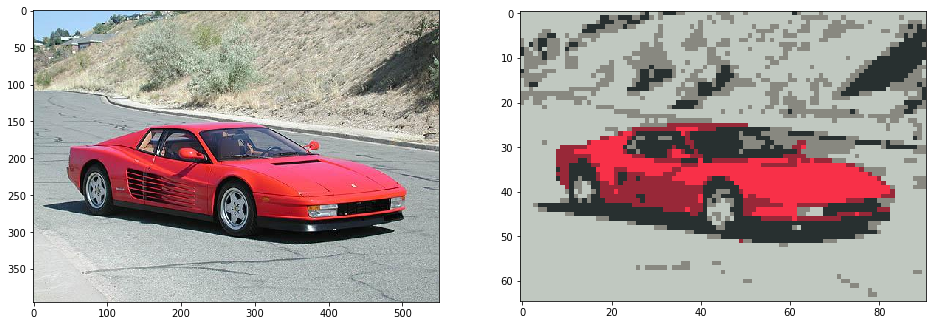
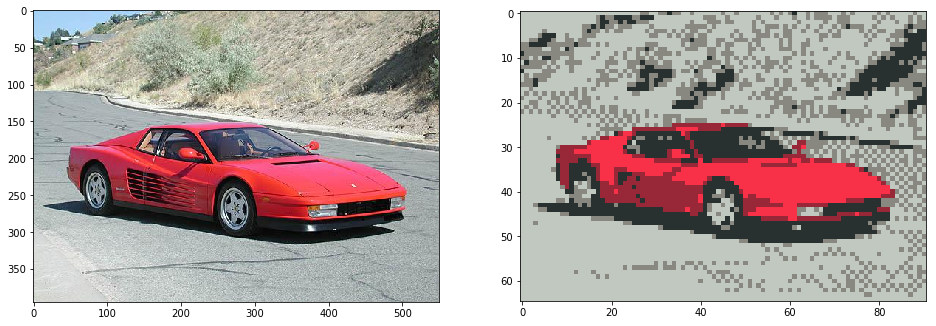
Implemented dithering
- Dithering is now available and is used by default
- Updated CLI tool to allow dithering
- Updated README.md and ferrari image example
- updated setup.py to include version information for 1.1.0

diff --git a/pyxelate.py b/pyxelate.py
@@ -10,6 +10,8 @@ from skimage.transform import resize
 
 from sklearn.mixture import BayesianGaussianMixture
 
+__version__ = '1.1.0'
+__version_info__ = tuple(int(num) for num in __version__.split('.'))
 
 class Pyxelate:
 
@@ -61,7 +63,7 @@ class Pyxelate:
 
 	ITER = 2
 
-	def __init__(self, height, width, color=8, regenerate_palette=True, random_state=0):
+	def __init__(self, height, width, color=8, dither=None, regenerate_palette=True, random_state=0):
 		"""Create instance for generating similar pixel arts."""
 
 		self.height = int(height)
@@ -71,7 +73,13 @@ class Pyxelate:
 		self.color = int(color)
 		if self.color < 2:
 			raise ValueError("The minimum number of colors is 2.")
-		self.regenerate_palette = regenerate_palette
+		if not dither:
+			self.dither = 1 / (self.color + 1)
+		elif dither > 0. and dither < 1.:
+			self.dither = float(dither)
+		else:
+			raise ValueError("The value of dither should be between 0. - 1.")
+		self.regenerate_palette = bool(regenerate_palette)
 		self.is_fitted = False
 		self.random_state = int(random_state)
 		self.model = BayesianGaussianMixture(n_components=self.color,
@@ -103,14 +111,27 @@ class Pyxelate:
 		width, height, depth = image.shape
 		reshaped = np.reshape(image, (width * height, depth))
 		y = self.model.predict(reshaped)
-
 		# increase hue and snap color values to multiples of 8
 		palette = rgb2hsv(self.model.means_.reshape(-1, 1, 3))
 		palette[:, :, 1] *= 1.14
 		palette = hsv2rgb(palette).reshape(self.color, 3) // 8 * 8
 
 		# return recolored image
-		image = np.reshape(palette[y], (width, height, depth))
+		image = palette[y]
+		# dither
+		if self.dither:
+			y = self.model.predict_proba(reshaped)
+			# get second best probability and remove it
+			y[np.arange(len(y)), np.argmax(y, axis=1)] = 0
+			# get new best and values
+			v = np.max(y, axis=1)
+			y = np.argmax(y, axis=1)
+			# replace every second pixel with second best color
+			for i in range(0, len(image), 2):
+				if v[i] > self.dither:
+					image[i] = palette[y[i]]
+
+		image = np.reshape(image, (width, height, depth))
 		return np.clip(image.astype("int"), 0, 255)
 
 	def _reduce(self, image):

diff --git a/pyx.py b/pyx.py
@@ -15,6 +15,7 @@ def parse_arguments():
     parser.add_argument('-f', '--factor', required=False, metavar='factor', type=int, default=5, help='The factor by which the image should be downscaled. Defaults to 5.')
     parser.add_argument('-s', '--scaling', required=False, metavar='scaling', type=int, default=5, help='The factor by which the generated image should be upscaled. Defaults to 5.')
     parser.add_argument('-c', '--colors', required=False, metavar='colors', type=int, default=8, help='The amount of colors of the pixelated image. Defaults to 8.')
+    parser.add_argument('-d', '--dither', required=False, metavar='dither', type=float, default=None, help='Amount of dithering 0. - 1.')
     parser.add_argument('-r', '--regenerate_palette', required=False, metavar='regenerate_palette', type=bool, default=True, help='Regenerate the palette for each image. Defaults to True.')
     parser.add_argument('-t', '--random_state', required=False, metavar='random_state', type=int, default=0, help='Sets the random state of the Bayesian Gaussian Mixture. Defaults to 0.')
     parser.add_argument('-i', '--input', required=False, metavar='path', type=str, default='', help='Path to single image or directory containing images for processing. Defaults <cwd>.')
@@ -53,7 +54,7 @@ if __name__ == "__main__":
     print(f"Writing files to {output_dir}")
 
     # height and width are getting set per image, this are just placeholders
-    p = Pyxelate(1, 1, color=args.colors, regenerate_palette=args.regenerate_palette, random_state=args.random_state)
+    p = Pyxelate(1, 1, color=args.colors, dither=args.dither, regenerate_palette=args.regenerate_palette, random_state=args.random_state)
 
     # loop over all images in the directory
     for image_file in image_files:

diff --git a/setup.py b/setup.py
@@ -1,7 +1,7 @@
 from setuptools import setup
 
 setup(name='pyxelate',
-      version='1.0',
+      version='1.1.0',
       description='Pyxelate is a Python class that converts images into tiny pixel arts with limited color palettes.',
       url='http://github.com/sedthh/pyxelate',
       author='sedthh',

diff --git a/README.md b/README.md
@@ -19,8 +19,9 @@ img = io.imread("cat.jpg")
 # generate pixel art that is 1/12 the size
 height, width, _ = img.shape 
 colors = 8
-p = Pyxelate(height // 12, width // 12, colors)
-img_small = p.convert(img)  # convert img
+dither = 0.
+p = Pyxelate(height // 12, width // 12, colors, dither)
+img_small = p.convert(img)  # convert an image with these settings
 
 _, axes = plt.subplots(1, 2, figsize=(16, 16))
 axes[0].imshow(img)
@@ -35,6 +36,7 @@ The **Pyxelate()** class accepts the following init parameters:
 - **height**: the height of the result image (height was chosen to be first parameter to mirror the array representation)
 - **width**: the width of the result image
 - **color**: the number of colors (default is 8)
+- **dither**: the amont of dithering between 0. - 1. (defaults value is 1 / (color + 1) )
 - **regenerate_palette**: if set to False, then the palette will only be generated once, and all future images will be generated using this original palette. This is useful for generating a sequence of images with the same palette (the default value is True, all images will have their own palettes).
 - **random_state**: the random state for the Bayesian Gaussian Mixture model (default is 0)
 
@@ -55,11 +57,11 @@ Then a Gaussian Mixture model is fitted (instead of conventional K-means) to fin
 ```pyx.py``` is the command line interface for the Pyxelate class and accepts a bunch of arguments to process multiple files one after another.
 
 ``` none
-usage: pyx.py [-h] [-f scale down input image by factor] [-s scale up output image by factor] [-c colors] [-r regenerate_palette]
-              [-t random_state] [-i folder of input images] [-o folder of output images]
+usage: pyx.py [-h] [-f scale down input image by factor] [-s scale up output image by factor] [-c colors] [-d dither] 
+              [-r regenerate_palette] [-t random_state] [-i folder of input images] [-o folder of output images]
 ```
 
-If not **--output** was defined, a **pyxelated/** folder will be created for output images. 
+If no **--output** was defined, a **pyxelated/** folder will be created for output images. 
 
 
 ### Requirements
